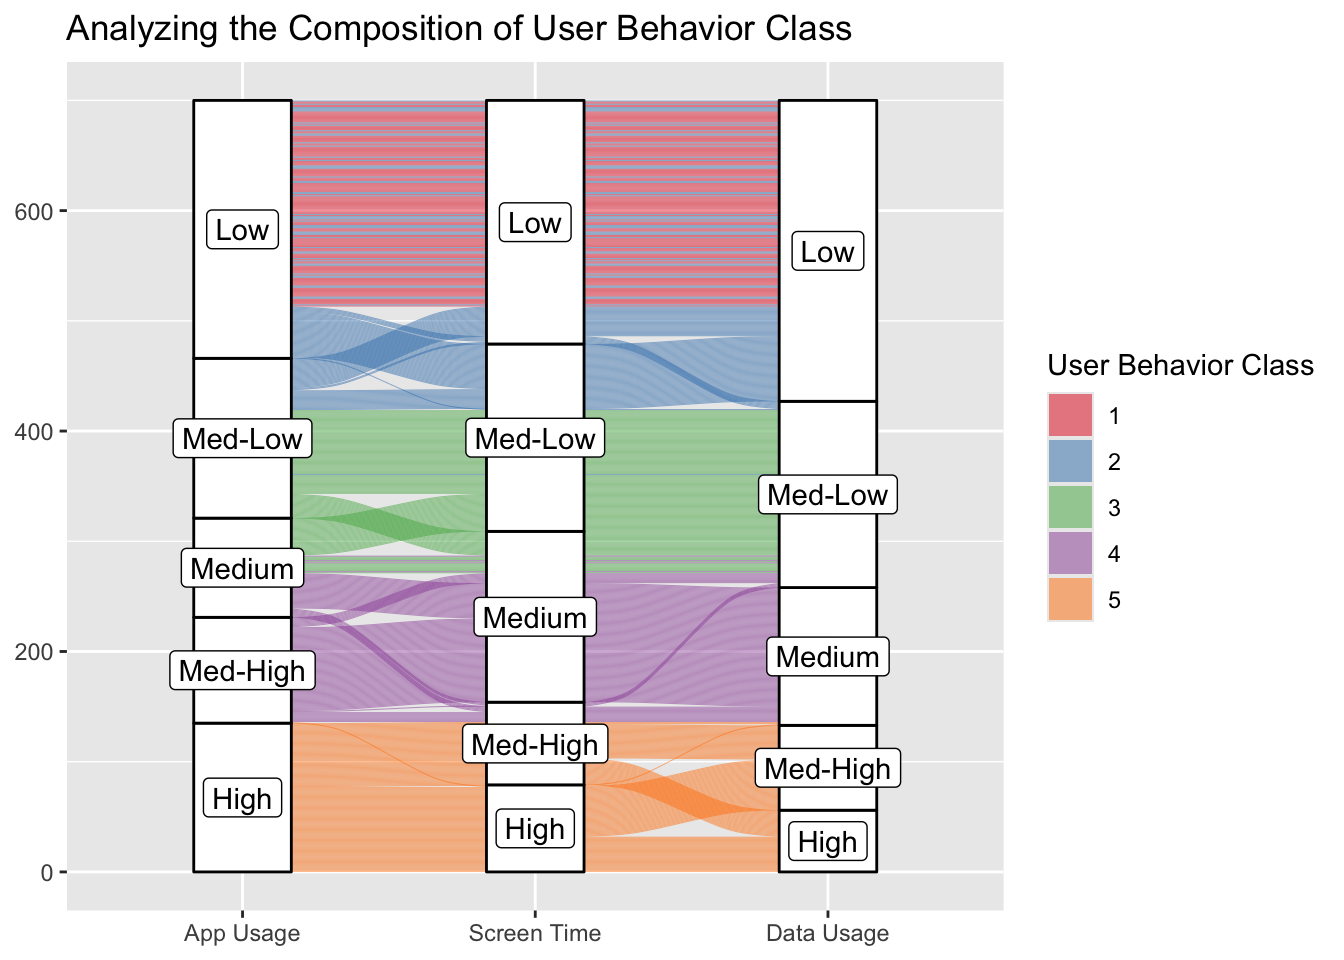
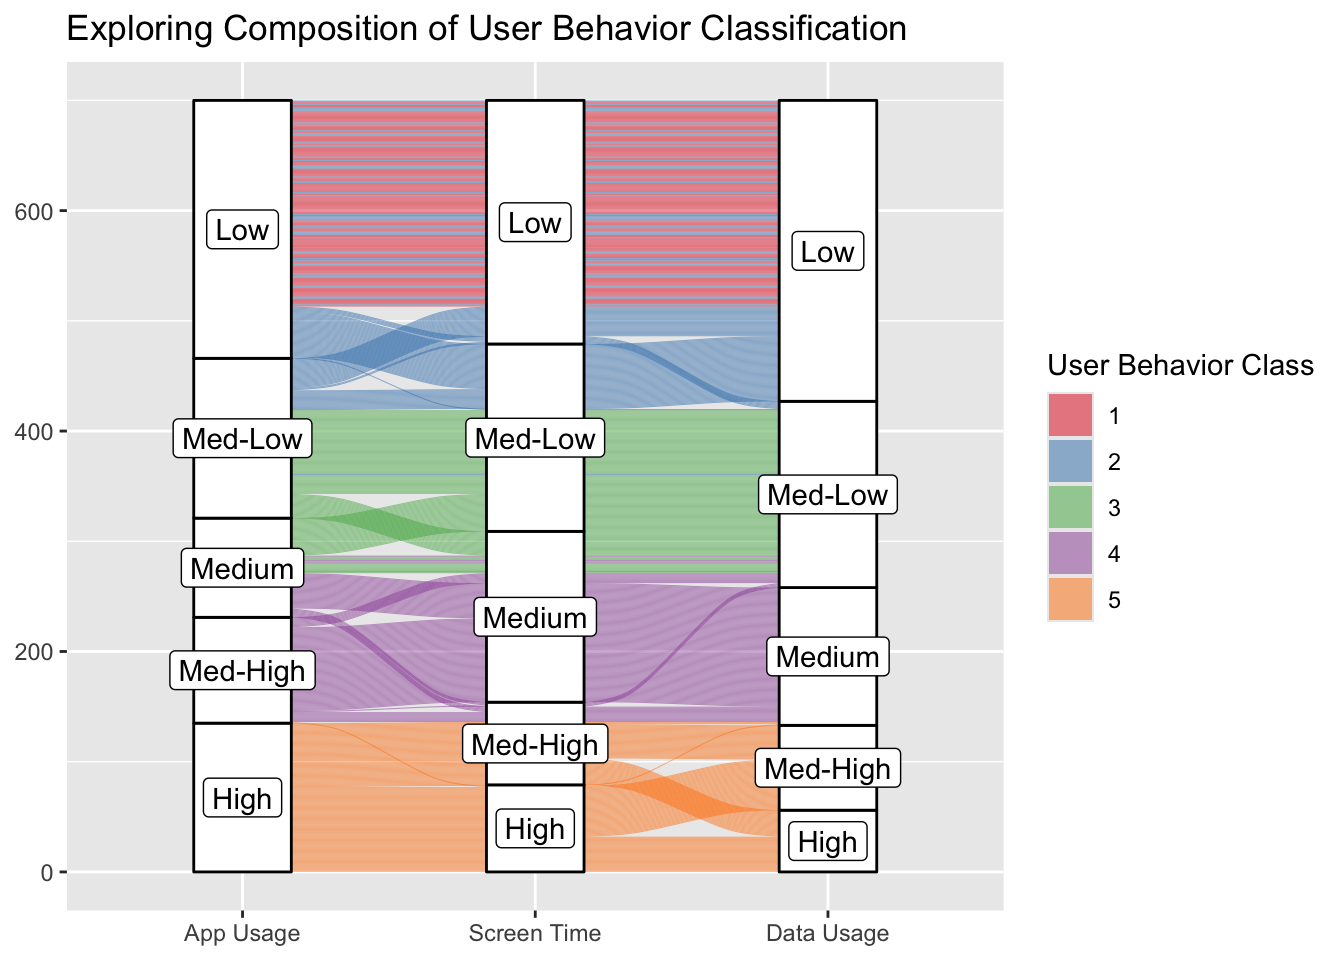
Updated graphs and README

Changed region(s): [[0.0312, 0.0, 0.6562, 0.0625]]

diff --git a/docs/mobile_usage_app_prep.html b/docs/mobile_usage_app_prep.html
@@ -340,7 +340,7 @@ Supply arguments directly to `.fns` through an anonymous function instead.
 <span id="cb22-5"><a href="#cb22-5" aria-hidden="true" tabindex="-1"></a>  <span class="fu">ylab</span>(<span class="st">"Percent"</span>) <span class="sc">+</span></span>
 <span id="cb22-6"><a href="#cb22-6" aria-hidden="true" tabindex="-1"></a>  <span class="fu">scale_y_continuous</span>(<span class="at">labels =</span> scales<span class="sc">::</span>percent) <span class="sc">+</span></span>
 <span id="cb22-7"><a href="#cb22-7" aria-hidden="true" tabindex="-1"></a>  <span class="fu">labs</span>(<span class="at">fill =</span> <span class="st">"Device Model"</span>) <span class="sc">+</span></span>
-<span id="cb22-8"><a href="#cb22-8" aria-hidden="true" tabindex="-1"></a>  <span class="fu">ggtitle</span>(<span class="st">"Device Models by User Behavior Class"</span>) <span class="sc">+</span></span>
+<span id="cb22-8"><a href="#cb22-8" aria-hidden="true" tabindex="-1"></a>  <span class="fu">ggtitle</span>(<span class="st">"Device Models by User Behavior Classification"</span>) <span class="sc">+</span></span>
 <span id="cb22-9"><a href="#cb22-9" aria-hidden="true" tabindex="-1"></a>  <span class="fu">scale_fill_brewer</span>(<span class="at">palette=</span><span class="st">"Set1"</span>)</span></code><button title="Copy to Clipboard" class="code-copy-button"><i class="bi"></i></button></pre></div>
 <div class="cell-output-display">
 <div>
@@ -357,7 +357,7 @@ Supply arguments directly to `.fns` through an anonymous function instead.
 <span id="cb23-4"><a href="#cb23-4" aria-hidden="true" tabindex="-1"></a>  <span class="fu">xlab</span>(<span class="st">"Gender"</span>) <span class="sc">+</span></span>
 <span id="cb23-5"><a href="#cb23-5" aria-hidden="true" tabindex="-1"></a>  <span class="fu">ylab</span>(<span class="st">"Count"</span>) <span class="sc">+</span></span>
 <span id="cb23-6"><a href="#cb23-6" aria-hidden="true" tabindex="-1"></a>  <span class="fu">labs</span>(<span class="at">fill =</span> <span class="st">"User Behavior Class"</span>) <span class="sc">+</span></span>
-<span id="cb23-7"><a href="#cb23-7" aria-hidden="true" tabindex="-1"></a>  <span class="fu">ggtitle</span>(<span class="st">"User Behavior Class by Gender"</span>) <span class="sc">+</span></span>
+<span id="cb23-7"><a href="#cb23-7" aria-hidden="true" tabindex="-1"></a>  <span class="fu">ggtitle</span>(<span class="st">"User Behavior Classification by Gender"</span>) <span class="sc">+</span></span>
 <span id="cb23-8"><a href="#cb23-8" aria-hidden="true" tabindex="-1"></a>  <span class="fu">scale_fill_brewer</span>(<span class="at">palette=</span><span class="st">"Set1"</span>)</span></code><button title="Copy to Clipboard" class="code-copy-button"><i class="bi"></i></button></pre></div>
 <div class="cell-output-display">
 <div>
@@ -451,7 +451,7 @@ age                                   0.00 1.00</code></pre>
 <span id="cb28-14"><a href="#cb28-14" aria-hidden="true" tabindex="-1"></a>  <span class="fu">geom_label</span>(<span class="at">stat =</span> <span class="st">"stratum"</span>, <span class="fu">aes</span>(<span class="at">label =</span> <span class="fu">after_stat</span>(stratum))) <span class="sc">+</span></span>
 <span id="cb28-15"><a href="#cb28-15" aria-hidden="true" tabindex="-1"></a>  <span class="fu">scale_x_discrete</span>(<span class="at">limits =</span> <span class="fu">c</span>(<span class="st">"App Usage"</span>, <span class="st">"Screen Time"</span>, <span class="st">"Data Usage"</span>)) <span class="sc">+</span></span>
 <span id="cb28-16"><a href="#cb28-16" aria-hidden="true" tabindex="-1"></a>  <span class="fu">labs</span>(<span class="at">fill =</span> <span class="st">"User Behavior Class"</span>) <span class="sc">+</span></span>
-<span id="cb28-17"><a href="#cb28-17" aria-hidden="true" tabindex="-1"></a>  <span class="fu">ggtitle</span>(<span class="st">"Analyzing the Composition of User Behavior Class"</span>) <span class="sc">+</span></span>
+<span id="cb28-17"><a href="#cb28-17" aria-hidden="true" tabindex="-1"></a>  <span class="fu">ggtitle</span>(<span class="st">"Exploring Composition of User Behavior Classification"</span>) <span class="sc">+</span></span>
 <span id="cb28-18"><a href="#cb28-18" aria-hidden="true" tabindex="-1"></a>  <span class="fu">scale_fill_brewer</span>(<span class="at">palette=</span><span class="st">"Set1"</span>)</span></code><button title="Copy to Clipboard" class="code-copy-button"><i class="bi"></i></button></pre></div>
 <div class="cell-output-display">
 <div>
@@ -468,38 +468,14 @@ age                                   0.00 1.00</code></pre>
 <span id="cb29-4"><a href="#cb29-4" aria-hidden="true" tabindex="-1"></a>                        <span class="at">labels =</span> <span class="fu">c</span>(<span class="st">"Under 25"</span>, <span class="st">"25-34"</span>, <span class="st">"35-44"</span>, <span class="st">"45-54"</span>, <span class="st">"55 and Over"</span>),</span>
 <span id="cb29-5"><a href="#cb29-5" aria-hidden="true" tabindex="-1"></a>                        <span class="at">include.lowest =</span> T,</span>
 <span id="cb29-6"><a href="#cb29-6" aria-hidden="true" tabindex="-1"></a>                        <span class="at">right =</span> F)) <span class="sc">|&gt;</span></span>
-<span id="cb29-7"><a href="#cb29-7" aria-hidden="true" tabindex="-1"></a>  <span class="fu">mutate</span>(<span class="at">app_usage =</span> <span class="fu">cut</span>(app_usage_time_min_day,</span>
-<span id="cb29-8"><a href="#cb29-8" aria-hidden="true" tabindex="-1"></a>                        <span class="at">breaks =</span> <span class="dv">2</span>,</span>
-<span id="cb29-9"><a href="#cb29-9" aria-hidden="true" tabindex="-1"></a>                        <span class="at">labels =</span> <span class="fu">c</span>(<span class="st">"Low"</span>, <span class="st">"High"</span>),</span>
-<span id="cb29-10"><a href="#cb29-10" aria-hidden="true" tabindex="-1"></a>                        <span class="at">include.lowest =</span> T,</span>
-<span id="cb29-11"><a href="#cb29-11" aria-hidden="true" tabindex="-1"></a>                        <span class="at">right =</span> F)) <span class="sc">|&gt;</span></span>
-<span id="cb29-12"><a href="#cb29-12" aria-hidden="true" tabindex="-1"></a>  <span class="fu">mutate</span>(<span class="at">data_usage =</span> <span class="fu">cut</span>(data_usage_mb_day,</span>
-<span id="cb29-13"><a href="#cb29-13" aria-hidden="true" tabindex="-1"></a>                        <span class="at">breaks =</span> <span class="dv">2</span>,</span>
-<span id="cb29-14"><a href="#cb29-14" aria-hidden="true" tabindex="-1"></a>                        <span class="at">labels =</span> <span class="fu">c</span>(<span class="st">"Light"</span>, <span class="st">"Heavy"</span>),</span>
-<span id="cb29-15"><a href="#cb29-15" aria-hidden="true" tabindex="-1"></a>                        <span class="at">include.lowest =</span> T,</span>
-<span id="cb29-16"><a href="#cb29-16" aria-hidden="true" tabindex="-1"></a>                        <span class="at">right =</span> F)) <span class="sc">|&gt;</span></span>
-<span id="cb29-17"><a href="#cb29-17" aria-hidden="true" tabindex="-1"></a>  <span class="fu">ggplot</span>() <span class="sc">+</span></span>
-<span id="cb29-18"><a href="#cb29-18" aria-hidden="true" tabindex="-1"></a>  <span class="fu">geom_mosaic</span>(<span class="fu">aes</span>(<span class="at">x =</span> <span class="fu">product</span>(age_group), <span class="at">fill =</span> user_behavior_class)) <span class="sc">+</span></span>
-<span id="cb29-19"><a href="#cb29-19" aria-hidden="true" tabindex="-1"></a>  <span class="fu">theme_mosaic</span>() <span class="sc">+</span></span>
-<span id="cb29-20"><a href="#cb29-20" aria-hidden="true" tabindex="-1"></a>  <span class="fu">theme</span>(<span class="at">legend.position =</span> <span class="st">"none"</span>) <span class="sc">+</span></span>
-<span id="cb29-21"><a href="#cb29-21" aria-hidden="true" tabindex="-1"></a>  <span class="fu">xlab</span>(<span class="st">"Age Group"</span>) <span class="sc">+</span></span>
-<span id="cb29-22"><a href="#cb29-22" aria-hidden="true" tabindex="-1"></a>  <span class="fu">ylab</span>(<span class="st">"User Behavior Class"</span>) <span class="sc">+</span></span>
-<span id="cb29-23"><a href="#cb29-23" aria-hidden="true" tabindex="-1"></a>  <span class="fu">ggtitle</span>(<span class="st">"Relative Size of User Behavior Class by Age Group"</span>) <span class="sc">+</span></span>
-<span id="cb29-24"><a href="#cb29-24" aria-hidden="true" tabindex="-1"></a>  <span class="fu">scale_fill_brewer</span>(<span class="at">palette=</span><span class="st">"Set1"</span>)</span></code><button title="Copy to Clipboard" class="code-copy-button"><i class="bi"></i></button></pre></div>
-<div class="cell-output cell-output-stderr">
-<pre><code>Warning: The `scale_name` argument of `continuous_scale()` is deprecated as of ggplot2
-3.5.0.</code></pre>
-</div>
-<div class="cell-output cell-output-stderr">
-<pre><code>Warning: The `trans` argument of `continuous_scale()` is deprecated as of ggplot2 3.5.0.
-ℹ Please use the `transform` argument instead.</code></pre>
-</div>
-<div class="cell-output cell-output-stderr">
-<pre><code>Warning: `unite_()` was deprecated in tidyr 1.2.0.
-ℹ Please use `unite()` instead.
-ℹ The deprecated feature was likely used in the ggmosaic package.
-  Please report the issue at &lt;https://github.com/haleyjeppson/ggmosaic&gt;.</code></pre>
-</div>
+<span id="cb29-7"><a href="#cb29-7" aria-hidden="true" tabindex="-1"></a>  <span class="fu">ggplot</span>() <span class="sc">+</span></span>
+<span id="cb29-8"><a href="#cb29-8" aria-hidden="true" tabindex="-1"></a>  <span class="fu">geom_mosaic</span>(<span class="fu">aes</span>(<span class="at">x =</span> <span class="fu">product</span>(age_group), <span class="at">fill =</span> user_behavior_class)) <span class="sc">+</span></span>
+<span id="cb29-9"><a href="#cb29-9" aria-hidden="true" tabindex="-1"></a>  <span class="fu">theme_mosaic</span>() <span class="sc">+</span></span>
+<span id="cb29-10"><a href="#cb29-10" aria-hidden="true" tabindex="-1"></a>  <span class="fu">theme</span>(<span class="at">legend.position =</span> <span class="st">"none"</span>) <span class="sc">+</span></span>
+<span id="cb29-11"><a href="#cb29-11" aria-hidden="true" tabindex="-1"></a>  <span class="fu">xlab</span>(<span class="st">"Age Group"</span>) <span class="sc">+</span></span>
+<span id="cb29-12"><a href="#cb29-12" aria-hidden="true" tabindex="-1"></a>  <span class="fu">ylab</span>(<span class="st">"User Behavior Class"</span>) <span class="sc">+</span></span>
+<span id="cb29-13"><a href="#cb29-13" aria-hidden="true" tabindex="-1"></a>  <span class="fu">ggtitle</span>(<span class="st">"Relative Size of User Behavior Classification by Age Group"</span>) <span class="sc">+</span></span>
+<span id="cb29-14"><a href="#cb29-14" aria-hidden="true" tabindex="-1"></a>  <span class="fu">scale_fill_brewer</span>(<span class="at">palette=</span><span class="st">"Set1"</span>)</span></code><button title="Copy to Clipboard" class="code-copy-button"><i class="bi"></i></button></pre></div>
 <div class="cell-output-display">
 <div>
 <figure class="figure">
